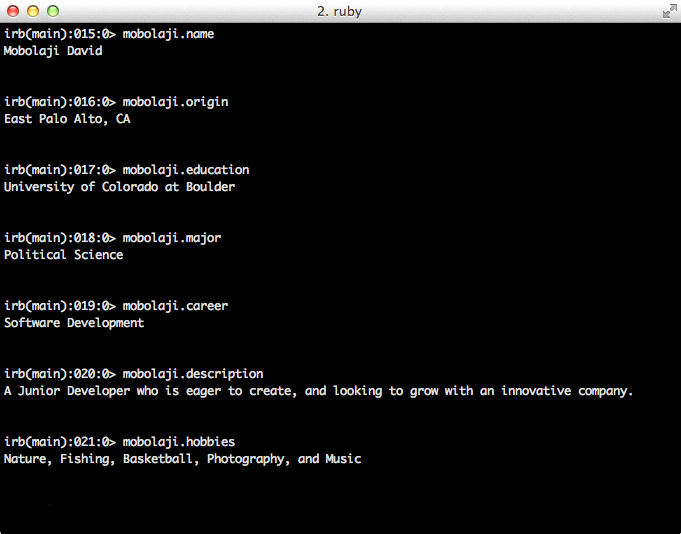
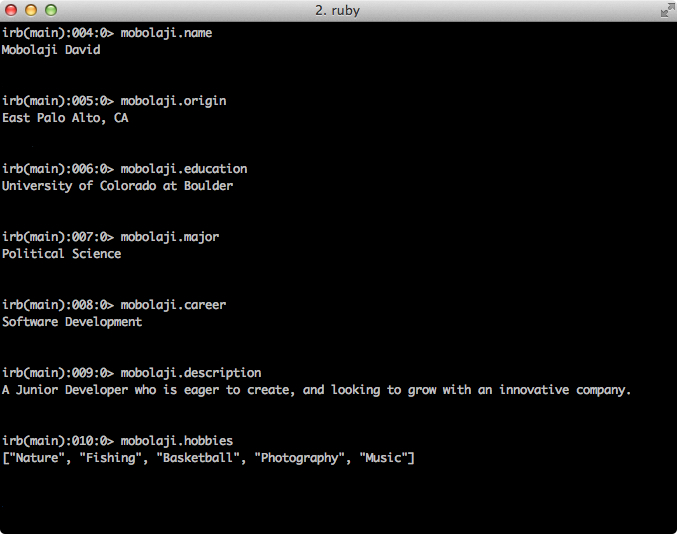
create css and js directories and move appropriate files to folders, edit mobile responsiveness, and update iTerm.jpg

diff --git a/index.html b/index.html
@@ -5,10 +5,10 @@
     <meta name="viewport" content="width=device-width, initial-scale=1">
     <link href="https://fonts.googleapis.com/css?family=Roboto" rel="stylesheet">
     <link href="https://fonts.googleapis.com/css?family=Share+Tech" rel="stylesheet">
-    <link rel="stylesheet" type="text/css" href="simplegrid.css" />
-	  <link href="style.css" type="text/css" rel="stylesheet">
-    <script type="text/javascript" src="jquery-3.1.1.js"></script>
-    <script type="text/javascript" src="style.js"></script>
+    <link href="css/simplegrid.css" type="text/css" rel="stylesheet"/>
+	  <link href="css/style.css" type="text/css" rel="stylesheet">
+    <script type="text/javascript" src="js/jquery-3.1.1.js"></script>
+    <script type="text/javascript" src="js/script.js"></script>
   </head>
 
   <body>
@@ -37,16 +37,8 @@
 
       <section id="page2">
         <div class="grid">
-          <div class="col-1-1">
-            <div class="resume">
-                <!-- <object data="Resume2017.pdf" type="application/pdf" width="100%" height="1200">
-                  <embed src="Resume2017.pdf" type="application/pdf" />
-                </object> -->
-
-                <!-- <embed src="Resume2017.pdf" width="100%" height="1200px" /> -->
-
-                <iframe src="Resume2017.pdf#zoom=100" allowfullscreen></iframe>
-            </div>
+          <div class="resume">
+            <iframe src="Resume2017.pdf#zoom=100" allowfullscreen></iframe>
           </div>
         </div>
       </section>
@@ -105,8 +97,8 @@
                 <h2>Contact</h2>
                 <div class="contact-info">
                   <p class="links">Email: <a class="contact-link" href="mailto:davidmo@colorado.edu">davidmo@colorado.edu</a></p>
-                  <p class="links">LinkedIn: <a class="contact-link" href="http://linkedin.com/in/mo-david">http://linkedin.com/in/mo-david</a></p>
-                  <p class="links">GitHub: <a <a class="contact-link" href="http://github.com/mobolaji89">http://github.com/mobolaji89</a>
+                  <p class="links">LinkedIn: <a class="contact-link" href="http://linkedin.com/in/mo-david">linkedin.com/in/mo-david</a></p>
+                  <p class="links">GitHub: <a <a class="contact-link" href="http://github.com/mobolaji89">github.com/mobolaji89</a>
                 </div>
               </ul>
             </div>

diff --git a/css/style.css b/css/style.css
@@ -8,7 +8,7 @@
 }
 
 body {
-  background-image: url("images/blackwood.jpg");
+  background-image: url("../images/blackwood.jpg");
   background-size: cover;
   background-repeat: no-repeat;
   background-attachment: fixed;
@@ -139,8 +139,13 @@ h2 {
     font-size: 50%;
   }
 
-  .resume {
-    margin-right: 20px;
+  .grid {
+    padding-left: 10px;
+    padding-right: 10px;
+  }
+
+  .info {
+    margin-left: 10px;
   }
 
 }
@@ -150,20 +155,13 @@ p  {
   margin-bottom: 25px;
 }
 
-/*object {
-  display: block;
-  max-width: 100%;
-  object-fit: contain;
-  margin: 0 auto;
-  margin-bottom: 20px;
-}*/
-
 .resume {
 position: relative;
 padding-bottom: 56.25%; /* 16:9 */
 padding-top: 25px;
 height: auto;
 margin-left: 20px;
+margin-right: 20px;
 margin-bottom: 20px;
 overflow: hidden;
 }
@@ -182,7 +180,7 @@ height: 100%;
 }
 
 #barID_title {
-  margin-top: 50px;
+  margin-top: 40px;
 }
 
 .youtube-container {
@@ -205,7 +203,7 @@ height: 100%;
 
 }
 .contact-info {
-  margin-top: 50px;
+  margin-top: 40px;
 }
 
 .links {

diff --git a/README.md b/README.md
@@ -1,2 +1,7 @@
-# mobolaji89.github.io
-Portfolio Coming Soon
+# mobolajidavid.com
+This is the repository for my personal portfolio website built from scratch using:
+
+- Simple Grid
+- HTML
+- CSS
+- JQuery
